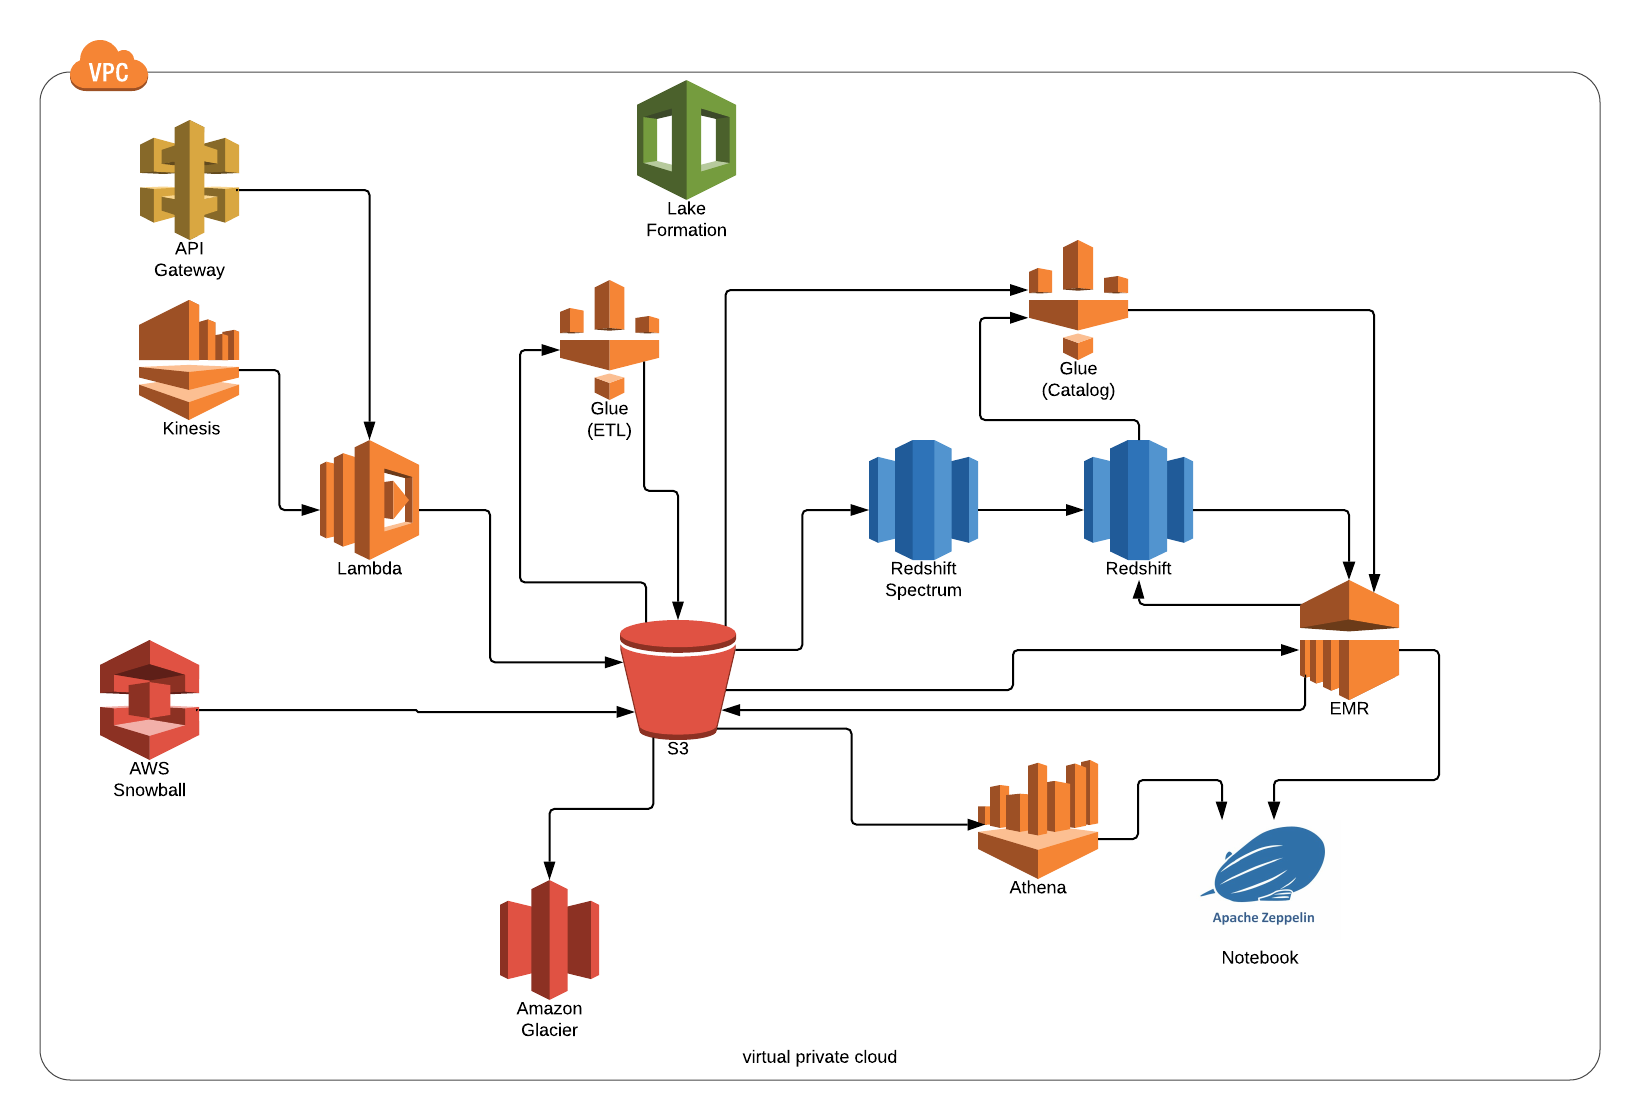
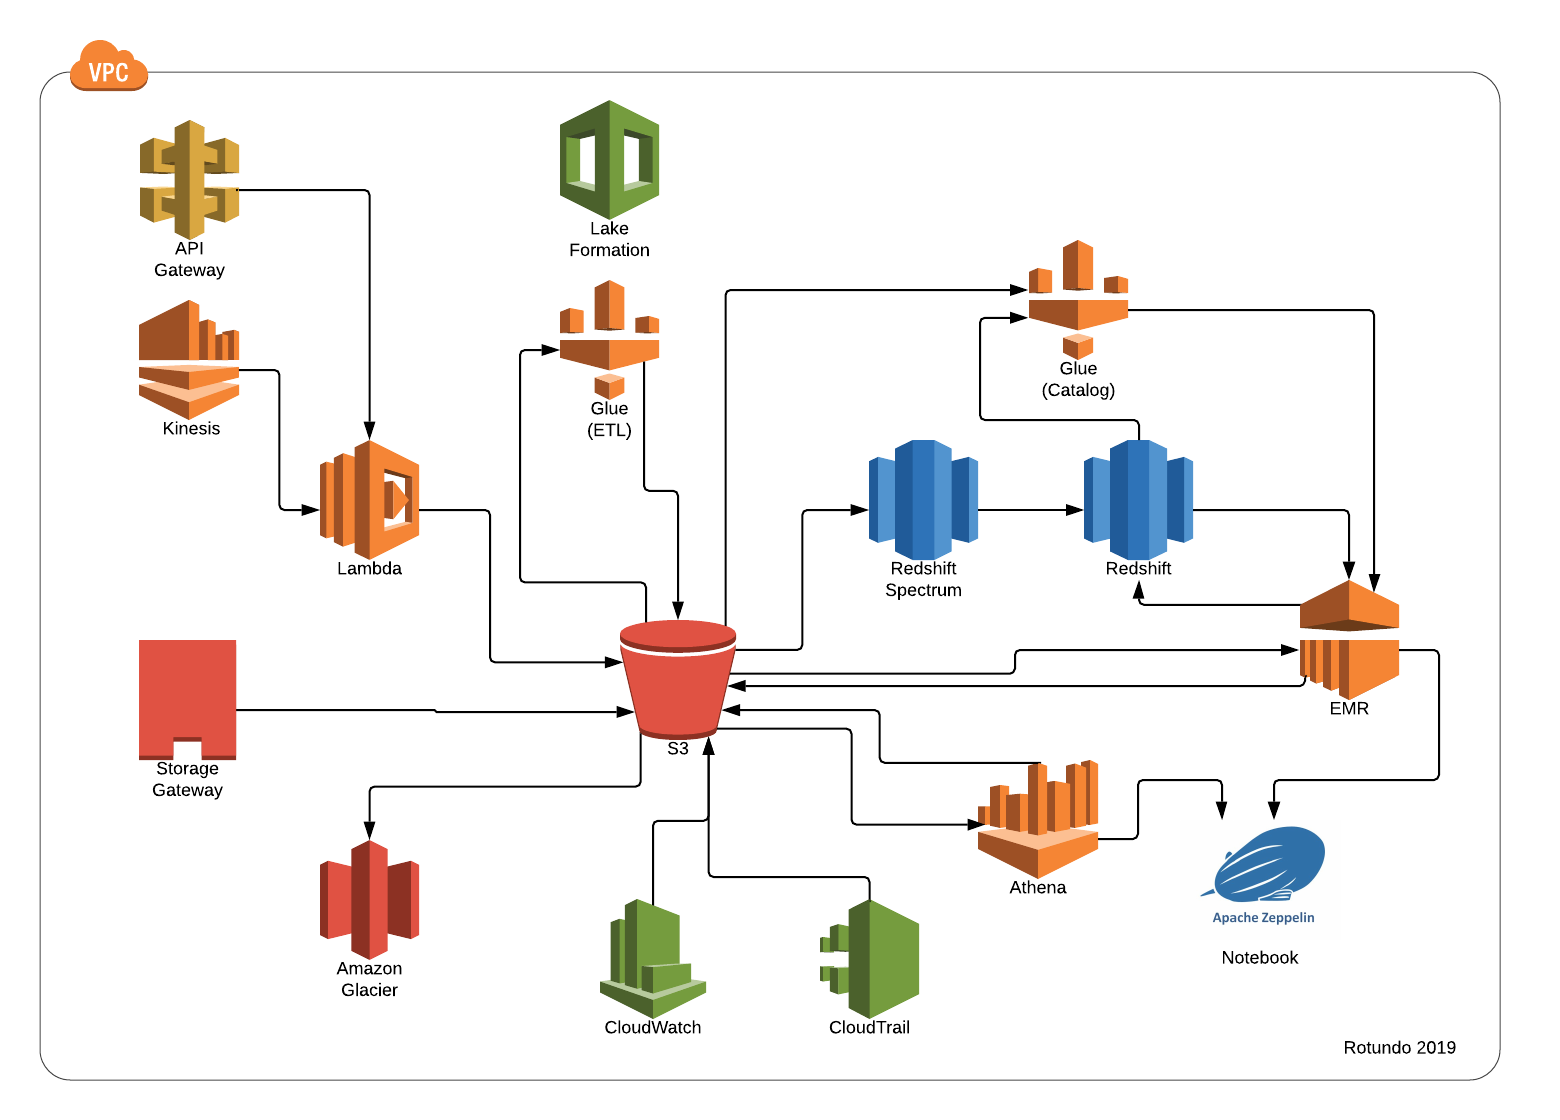
documentation update

diff --git a/docs/index.md b/docs/index.md
@@ -78,18 +78,16 @@ Lake formation is planned to be generally available starting 2019Q2, but it appe
 
 ### Glue
 
+
 ### Lake Formation
-
-
 
 
 
 **Resources**<br/>
 _[Lake Formation Tech Talk](https://www.youtube.com/watch?v=nsiLMqg654s)_
 
-## Storage
 
-The one common denominator of all potential AWS solutions is the utilization of S3 as a general storage layer
+## Storage
 
 ### S3
 
@@ -98,7 +96,7 @@ The one common denominator of all potential AWS solutions is the utilization of 
 ### Redshift
 Redshift is a columnar store offering from Amazon. It does require provisioning of virtual cores
 
-It is possible
+It is possible to dynamically scale Redshift by monitoring 
 
 ### Redshift Spectrum
 Redshift Spectrum extends the capabilities of Redshift beyond the 
@@ -132,6 +130,15 @@ Fine grained control over data/processing resources in other AWS services includ
 **Resources** <br/>
 _[https://aws.amazon.com/lake-formation/faqs/#Security_and_governance](Lake Formation - Security and Governance Summary)_
 
+## Data Ingestion
+### Kinesis
+
+### Storage Gateway
+
+### Snowball
+
+**Resources**<br/>
+_[Data Ingestion Methods](https://docs.aws.amazon.com/aws-technical-content/latest/building-data-lakes/data-ingestion-methods.html)_
 
 ## Processing
 
